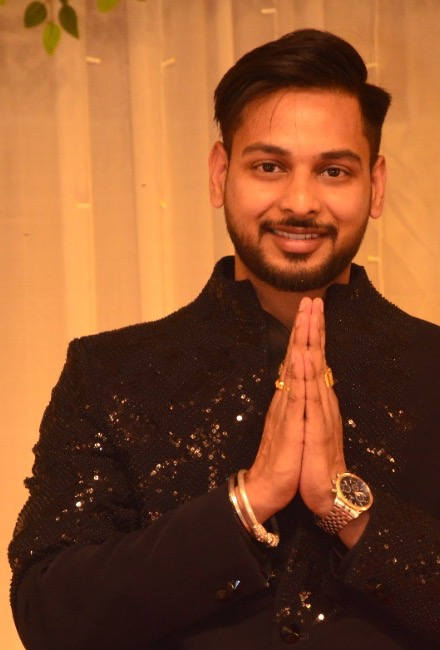
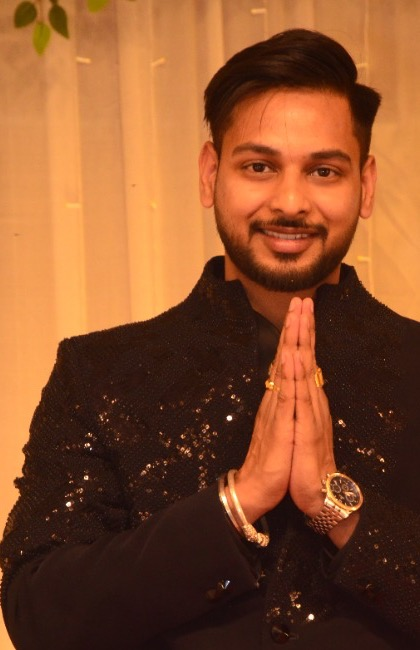
Fix header navigation stacking/links and perfectly center-align photos

diff --git a/src/Components/Navbar.jsx b/src/Components/Navbar.jsx
@@ -1,5 +1,4 @@
-import React from 'react'
-import { Flex, Spacer, Box, IconButton, useColorMode, Link as IconLink, HStack, Button } from '@chakra-ui/react';
+import { Flex, Spacer, Box, IconButton, useColorMode, HStack, Button } from '@chakra-ui/react';
 import { FaSun, FaMoon, FaGithub, FaLinkedin, FaEnvelope } from 'react-icons/fa'
 import { Link } from "react-scroll";
 import Home from '../Pages/Home'
@@ -25,14 +24,16 @@ const NavBar = () => {
   ];
 
   return (
-    <Box>
+    <Box pos="relative" zIndex={100}>
       <Box
-        pos="sticky"
+        pos="fixed"
         top={0}
-        zIndex={100}
+        left={0}
+        right={0}
+        zIndex={1000}
         px={{ base: 4, md: 8 }}
         py={3}
-        bg={isDark ? 'rgba(11, 15, 25, 0.85)' : 'rgba(255, 255, 255, 0.9)'}
+        bg={isDark ? 'rgba(11, 15, 25, 0.88)' : 'rgba(255, 255, 255, 0.92)'}
         backdropFilter="blur(16px)"
         borderBottom="1px solid"
         borderColor={isDark ? 'rgba(255, 255, 255, 0.08)' : 'rgba(0, 0, 0, 0.08)'}
@@ -41,59 +42,63 @@ const NavBar = () => {
       >
         <Flex maxW="1280px" mx="auto" alignItems="center">
           {/* Mobile Menu Button */}
-          <Box display={{ base: 'block', md: 'none' }} mr={2}>
+          <Box display={{ base: 'block', md: 'none' }} mr={3}>
             <Menu />
           </Box>
 
           {/* Logo / Brand Name */}
-          <Box cursor="pointer">
-            <Link activeClass="active" smooth spy to="home">
-              <Box
-                as="span"
-                fontSize={{ base: '18px', md: '22px' }}
-                fontWeight={700}
-                className="font-signature"
-                bgGradient="linear(to-r, #f30e4f, #38bdf8)"
-                bgClip="text"
-                letterSpacing="tight"
-              >
-                {state}
-              </Box>
-            </Link>
-          </Box>
+          <Link activeClass="active" smooth spy offset={-80} to="home" style={{ cursor: 'pointer' }}>
+            <Box
+              as="span"
+              fontSize={{ base: '18px', md: '22px' }}
+              fontWeight={700}
+              className="font-signature"
+              bgGradient="linear(to-r, #f30e4f, #38bdf8)"
+              bgClip="text"
+              letterSpacing="tight"
+              userSelect="none"
+            >
+              {state}
+            </Box>
+          </Link>
 
           <Spacer />
 
           {/* Desktop Nav Links */}
           <HStack spacing={1} display={{ base: 'none', md: 'flex' }}>
             {navLinks.map((item) => (
-              <Box
+              <Link
                 key={item.to}
-                as="span"
-                px={3}
-                py={1.5}
-                borderRadius="md"
-                fontSize="14px"
-                fontWeight={600}
-                color={isDark ? 'gray.300' : 'gray.700'}
-                cursor="pointer"
-                transition="all 0.2s ease"
-                _hover={{
-                  color: '#f30e4f',
-                  bg: isDark ? 'rgba(243, 14, 79, 0.08)' : 'rgba(243, 14, 79, 0.06)',
-                }}
+                activeClass="active"
+                smooth
+                spy
+                offset={-80}
+                to={item.to}
+                style={{ textDecoration: 'none' }}
               >
-                <Link activeClass="active" smooth spy offset={-70} to={item.to}>
+                <Box
+                  as="span"
+                  px={3}
+                  py={1.5}
+                  borderRadius="md"
+                  fontSize="14px"
+                  fontWeight={600}
+                  color={isDark ? 'gray.300' : 'gray.700'}
+                  cursor="pointer"
+                  display="inline-block"
+                  transition="all 0.2s ease"
+                  _hover={{
+                    color: '#f30e4f',
+                    bg: isDark ? 'rgba(243, 14, 79, 0.08)' : 'rgba(243, 14, 79, 0.06)',
+                  }}
+                >
                   {item.label}
-                </Link>
-              </Box>
+                </Box>
+              </Link>
             ))}
 
             {/* Resume Button */}
             <Button
-              as="a"
-              href="./Puneet_Srivastava_Resume.pdf"
-              download
               size="sm"
               ml={3}
               borderRadius="full"
@@ -113,40 +118,44 @@ const NavBar = () => {
 
           {/* Social Links & Theme Switcher */}
           <HStack spacing={2} ml={{ base: 2, md: 4 }}>
-            <Box display={{ base: 'none', lg: 'flex' }}>
-              <IconLink href="https://github.com/CodexPuneet" target="_blank" rel="noreferrer">
-                <IconButton
-                  aria-label="GitHub"
-                  icon={<FaGithub />}
-                  isRound
-                  size="sm"
-                  variant="ghost"
-                  color={isDark ? 'gray.300' : 'gray.600'}
-                  _hover={{ color: '#38bdf8', bg: isDark ? 'whiteAlpha.100' : 'blackAlpha.100' }}
-                />
-              </IconLink>
-              <IconLink href="https://www.linkedin.com/in/puneet-srivastava7/" target="_blank" rel="noreferrer">
-                <IconButton
-                  aria-label="LinkedIn"
-                  icon={<FaLinkedin />}
-                  isRound
-                  size="sm"
-                  variant="ghost"
-                  color={isDark ? 'gray.300' : 'gray.600'}
-                  _hover={{ color: '#38bdf8', bg: isDark ? 'whiteAlpha.100' : 'blackAlpha.100' }}
-                />
-              </IconLink>
-              <IconLink href="mailto:srivastavap714@gmail.com">
-                <IconButton
-                  aria-label="Email"
-                  icon={<FaEnvelope />}
-                  isRound
-                  size="sm"
-                  variant="ghost"
-                  color={isDark ? 'gray.300' : 'gray.600'}
-                  _hover={{ color: '#f30e4f', bg: isDark ? 'whiteAlpha.100' : 'blackAlpha.100' }}
-                />
-              </IconLink>
+            <Box display={{ base: 'none', lg: 'flex' }} gap={2}>
+              <IconButton
+                as="a"
+                href="https://github.com/CodexPuneet"
+                target="_blank"
+                rel="noreferrer"
+                aria-label="GitHub"
+                icon={<FaGithub />}
+                isRound
+                size="sm"
+                variant="ghost"
+                color={isDark ? 'gray.300' : 'gray.600'}
+                _hover={{ color: '#38bdf8', bg: isDark ? 'whiteAlpha.100' : 'blackAlpha.100' }}
+              />
+              <IconButton
+                as="a"
+                href="https://www.linkedin.com/in/puneet-srivastava7/"
+                target="_blank"
+                rel="noreferrer"
+                aria-label="LinkedIn"
+                icon={<FaLinkedin />}
+                isRound
+                size="sm"
+                variant="ghost"
+                color={isDark ? 'gray.300' : 'gray.600'}
+                _hover={{ color: '#38bdf8', bg: isDark ? 'whiteAlpha.100' : 'blackAlpha.100' }}
+              />
+              <IconButton
+                as="a"
+                href="mailto:srivastavap714@gmail.com"
+                aria-label="Email"
+                icon={<FaEnvelope />}
+                isRound
+                size="sm"
+                variant="ghost"
+                color={isDark ? 'gray.300' : 'gray.600'}
+                _hover={{ color: '#f30e4f', bg: isDark ? 'whiteAlpha.100' : 'blackAlpha.100' }}
+              />
             </Box>
 
             <IconButton
@@ -162,6 +171,9 @@ const NavBar = () => {
           </HStack>
         </Flex>
       </Box>
+
+      {/* Spacer so content doesn't get hidden behind fixed navbar */}
+      <Box h={{ base: "60px", md: "68px" }} />
 
       <div id="home"><Home /></div>
       <div id="about"><About /></div>

diff --git a/src/Pages/Home.css b/src/Pages/Home.css
@@ -2,9 +2,14 @@
 /* Executive Portfolio Styling & Animations */
 
 .profile {
+  display: block;
+  margin-left: auto;
+  margin-right: auto;
   width: 320px;
+  max-width: 100%;
   height: 380px;
   object-fit: cover;
+  object-position: center top;
   border-radius: 24px;
   border: 2px solid rgba(243, 14, 79, 0.45);
   box-shadow: 0 20px 45px -12px rgba(243, 14, 79, 0.35), 0 0 30px rgba(56, 189, 248, 0.2);
@@ -28,7 +33,11 @@
 }
 
 .profile1 {
+  display: block;
+  margin-left: auto;
+  margin-right: auto;
   width: 290px;
+  max-width: 100%;
   height: 360px;
   object-fit: cover;
   object-position: center top;
@@ -43,6 +52,7 @@
   border-color: rgba(56, 189, 248, 0.7);
   box-shadow: 0 22px 48px -8px rgba(56, 189, 248, 0.35), 0 0 30px rgba(243, 14, 79, 0.25);
 }
+
 
 .paymonk {
   width: 140px;

diff --git a/src/Pages/About.jsx b/src/Pages/About.jsx
@@ -46,6 +46,7 @@ function About() {
       >
         {/* Left Column: Image & Snapshot Card */}
         <MotionBox
+          w="full"
           initial={{ opacity: 0, x: -20 }}
           whileInView={{ opacity: 1, x: 0 }}
           viewport={{ once: true }}
@@ -53,10 +54,12 @@ function About() {
           display="flex"
           flexDirection="column"
           alignItems="center"
+          justifyContent="center"
         >
-          <Box pos="relative" mb={6}>
+          <Box pos="relative" mb={6} display="flex" justifyContent="center" alignItems="center" w="full">
             <img className="profile1" src={Pic} alt="Puneet Srivastava" />
           </Box>
+
 
           <Box
             w="full"

diff --git a/src/Pages/Home.jsx b/src/Pages/Home.jsx
@@ -183,13 +183,14 @@ const Home = () => {
 
         {/* Profile Image with subtle glow */}
         <MotionFlex
+          w="full"
           justifyContent="center"
           alignItems="center"
           initial={{ opacity: 0, scale: 0.95 }}
           animate={{ opacity: 1, scale: 1 }}
           transition={{ duration: 0.7, delay: 0.2, ease: 'easeOut' }}
         >
-          <Box pos="relative">
+          <Box pos="relative" display="flex" justifyContent="center" alignItems="center">
             <img className="profile" src={Pic} alt="Puneet Srivastava" />
           </Box>
         </MotionFlex>
